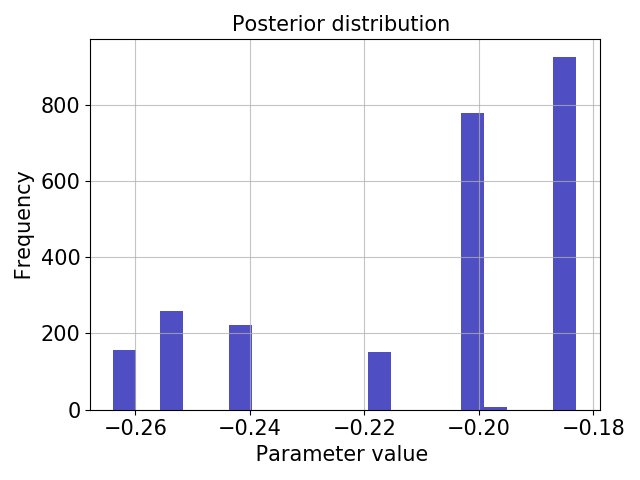
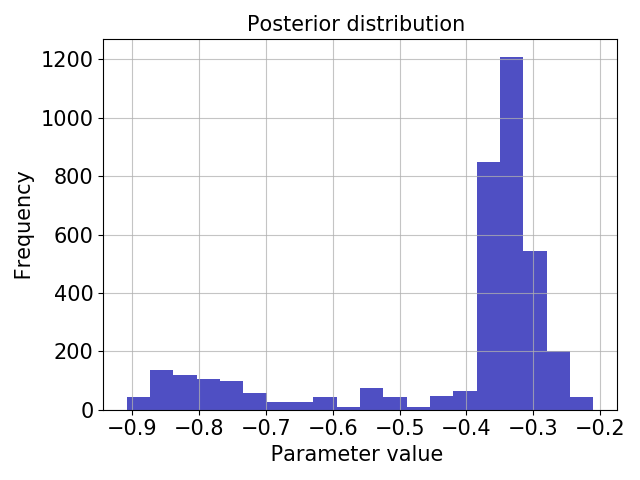
posterior plots only for first 5 weights

diff --git a/logisticreg_Bayesmultioutput.py b/logisticreg_Bayesmultioutput.py
@@ -48,13 +48,6 @@ class logistic_regression:
 		z_vec = x_vec.dot(self.w) - self.b 
 		output = self.activation_func(z_vec) # Output 
 		return output
- 
-
-	def softmax_grad(self, softmax):
-		# Reshape the 1-d softmax to 2-d so that np.dot will do the matrix multiplication
-		#https://medium.com/@aerinykim/how-to-implement-the-softmax-derivative-independently-from-any-loss-function-ae6d44363a9d
-		s = softmax.reshape(-1,1)
-		return np.diagflat(s) - np.dot(s, s.T)
 
 	def gradient(self, x_vec, output, actual):   
 		if self.use_sigmoid == True :
@@ -63,18 +56,13 @@ class logistic_regression:
 			out_delta =   output - actual
 		return out_delta 
 
-
-
 	def update(self, x_vec, output, actual): # implementation using for loops 
-
 		for x in range(0, self.num_features):
 			for y in range(0, self.num_outputs):
 				self.w[x,y] += self.learn_rate * self.out_delta[y] * x_vec[x] 
 		for y in range(0, self.num_outputs):
 			self.b += -1 * self.learn_rate * self.out_delta[y]
 	 
-
-
 
 	def test_model(self, data, tolerance):  
 
@@ -89,47 +77,43 @@ class logistic_regression:
 			pred_binary = np.zeros(prediction.shape[0])
 			sum_sqer += self.squared_error(prediction, actual)
 			index= np.argmax(prediction)
-			pred_binary[index] = 1 # i=for softmax 
-
+			pred_binary[index] = 1 # i=for softmax  
 			#pred_binary = np.where(prediction > (1 - tolerance), 1, 0) # for sigmoid in case of classification
 
 			if( (actual==pred_binary).all()):
 				class_perf =  class_perf +1   
 
 		rmse = np.sqrt(sum_sqer/num_instances)
-
 		percentage_correct = float(class_perf/num_instances) * 100 
-
 		print(percentage_correct, rmse,  ' class_perf, rmse')  
 
 		return ( rmse, percentage_correct)
 
  
 	def SGD(self):   
-		
-			epoch = 0 
-			shuffle = True
+		epoch = 0 
+		shuffle = True
 
-			while  epoch < self.max_epoch:
-				sum_sqer = 0
-				for s in range(0, self.num_train): 
-					if shuffle ==True:
-						i = random.randint(0, self.num_train-1) 
-					input_instance  =  self.train_data[i,0:self.num_features]  
-					actual  = self.train_data[i,self.num_features:]  
-					prediction = self.predict(input_instance) 
-					sum_sqer += self.squared_error(prediction, actual)
-					self.out_delta = self.gradient( input_instance, prediction, actual)    # major difference when compared to GD 
-					self.update(input_instance, prediction, actual) 
- 
-				epoch=epoch+1  
+		while  epoch < self.max_epoch:
+			sum_sqer = 0
+			for s in range(0, self.num_train): 
+				if shuffle ==True:
+					i = random.randint(0, self.num_train-1) 
+				input_instance  =  self.train_data[i,0:self.num_features]  
+				actual  = self.train_data[i,self.num_features:]  
+				prediction = self.predict(input_instance) 
+				sum_sqer += self.squared_error(prediction, actual)
+				self.out_delta = self.gradient( input_instance, prediction, actual)    # major difference when compared to GD 
+				self.update(input_instance, prediction, actual) 
 
-			rmse_train, train_perc = self.test_model(self.train_data, 0.3) 
-			rmse_test =0
-			test_perc =0
-			rmse_test, test_perc = self.test_model(self.test_data, 0.3)
-  
-			return (train_perc, test_perc, rmse_train, rmse_test) 
+			epoch=epoch+1  
+
+		rmse_train, train_perc = self.test_model(self.train_data, 0.3) 
+		rmse_test =0
+		test_perc =0
+		rmse_test, test_perc = self.test_model(self.test_data, 0.3)
+
+		return (train_perc, test_perc, rmse_train, rmse_test) 
 				
 #------------ new functions added for MCMC below
 	 
@@ -347,7 +331,7 @@ class MCMC:
 
 		print(accept_ratio, '% was accepted')
 
-		burnin = 0.75 * samples  # use post burn in samples
+		burnin = 0.25 * samples  # use post burn in samples
 
 		pos_w = pos_w[int(burnin):, ]
 		pos_tau = pos_tau[int(burnin):, ] 
@@ -462,23 +446,20 @@ def main():
 		topology = [features, output]
 
 
-		model = logistic_regression(1000,   traindata, testdata, topology[0], 0.1, activation) 
+		model = logistic_regression(500,   traindata, testdata, topology[0], 0.1, activation) 
 
 		train_perc, test_perc, rmse_train, rmse_test = model.SGD()
 
 		print(train_perc, test_perc, rmse_train, rmse_test, ' train_perc, test_perc, rmse_train, rmse_test using SGD ')
 
 
-
-
-
-
+ 
 		#--------------------------------------------------
 
 		MinCriteria = 0.005  # stop when RMSE reaches MinCriteria ( problem dependent)
 
 
-		numSamples = 10000# need to decide yourself
+		numSamples = 5000# need to decide yourself
 
 		mcmc = MCMC(numSamples, traindata, testdata, topology, activation)  # declare class
 
@@ -550,9 +531,10 @@ def main():
 		if not os.path.exists(folder):
 			os.makedirs(folder)
 
-		for i in range(pos_w.shape[1]):
-			histogram_trace(pos_w[:,i], folder+ '/'+ str(i))
+		#for i in range(pos_w.shape[1]):
 
+		for i in range(5):
+			histogram_trace(pos_w[:,i], folder+ '/'+ str(i))
 
 if __name__ == "__main__": main()
 
